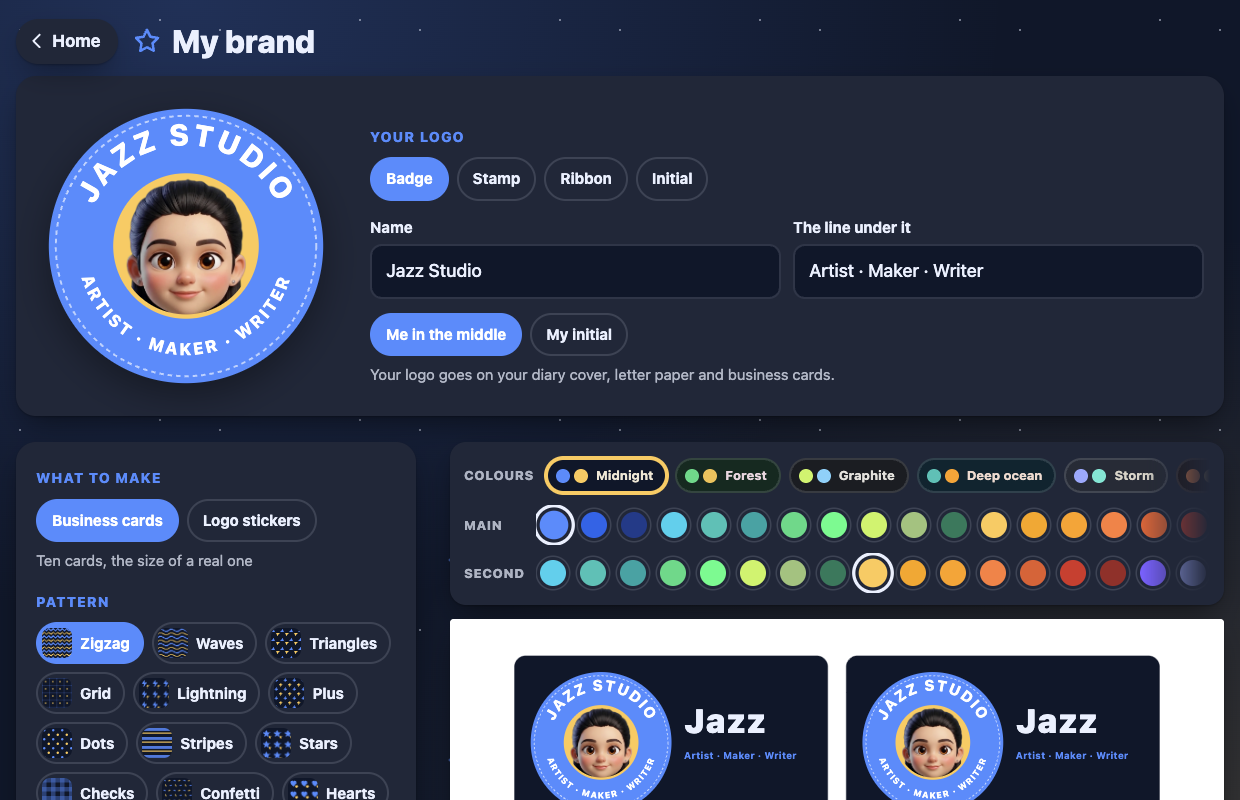
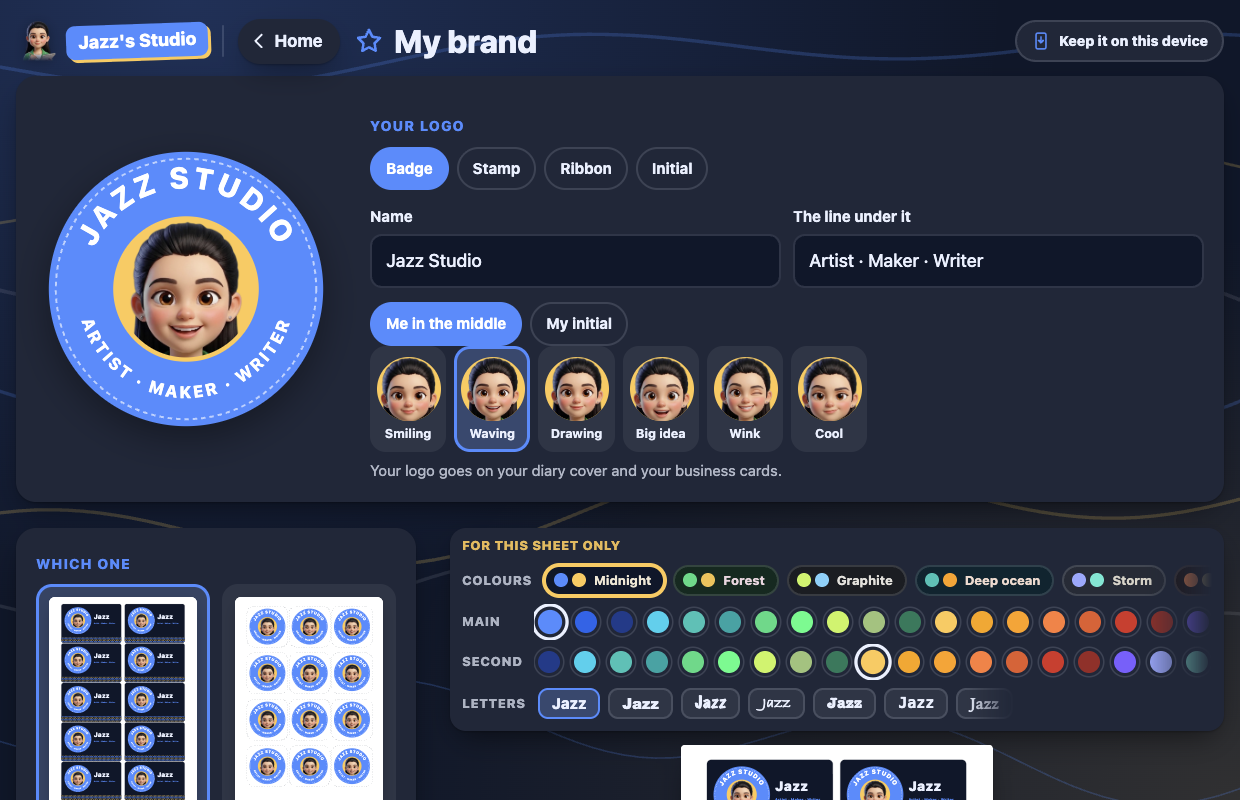
README: prints kept to use again, sheets with their own colours, and new pictures

diff --git a/README.md b/README.md
@@ -42,25 +42,34 @@ Dark by default and nothing girly, because that is what she asked for.
 | **Make from a box** | Measure a toilet roll, a cereal box or a lid, and print a wrap that fits it, with the steps to make a pencil pot, a desk tidy, a notebook cover or a treasure box |
 | **My brand** | Her own logo in four styles, business cards and logo stickers. The logo goes on her diary cover too |
 | **Play** | A poster of her name, secret messages in pigpen with a key for a friend, story sparks for when the diary page is blank, and a doodle pad |
-| **My makes** | Photos of everything she made, kept on the device |
+| **My makes** | Her prints, kept to print again or change first, and photos of everything she made, all on the device |
 | **Make it yours** | Her character, or a family's own (see below), her name, seven letterings, twelve colour sets and any colour besides, her favourite pattern and the background |
 
 The colours are on a strip above the preview in every tool, so a colour is
-tried where it shows rather than in another room.
+tried where it shows rather than in another room. Each sheet keeps its own, so
+trying a colour on a bookmark changes the bookmark and nothing else.
+
+After a print the studio asks whether to keep it in My makes, and what to call
+it. It keeps the settings rather than a picture: open it later and the tool is
+back exactly as it was, ready to print again or to change a word first.
 
 <div align="center">
 <img src="media/stickers.png" width="420" alt="The stationery room making a sheet of stickers of her character in six poses">
 <img src="media/box.png" width="420" alt="Make from a box, with a drawing of a toilet roll showing what to measure and a printed wrap with her face and the word Pens">
 <img src="media/brand.png" width="420" alt="My brand, with a round badge logo reading Jazz Studio around her face, and business cards">
+<img src="media/prints.png" width="420" alt="My makes, with her kept prints: bookmarks, stickers, a pencil pot wrap, a name poster and a secret message, each with an Open button">
 <img src="media/phone.png" width="200" alt="The studio on a phone">
 </div>
 
 ## Printing
 
-Every sheet is drawn in millimetres on A4. Print at **actual size** (100%, not
-"fit to page"): most sheets carry a line that should measure exactly 5 cm, so
-a ruler can check, and a wrap for a toilet roll comes out the right size to go
-round one. Nothing is closer than 10 mm to the edge.
+Every sheet is drawn in millimetres on A4, and prints on one page, on a
+computer, a tablet or a phone. Print wraps at **actual size** (100%, not
+"fit to page"), so a wrap for a toilet roll comes out the right size to go
+round one; each wrap carries a line that should measure exactly 5 cm, so a
+ruler can check. Nothing is closer than 10 mm to the edge. An iPad always
+prints a little smaller than actual size, and its own header and footer, so a
+sheet is fitted to what it leaves.
 
 ## Safe for her
 
@@ -69,8 +78,8 @@ round one. Nothing is closer than 10 mm to the edge.
   drawn or shipped with the app.
 - **Works offline.** Once it has been opened, it keeps working with no
   connection.
-- **Her things stay hers.** Photos and doodles are kept in the browser on this
-  device, and removing one takes two taps.
+- **Her things stay hers.** Prints, photos and doodles are kept in the browser
+  on this device, and removing one takes two taps.
 
 ## Her character
 
